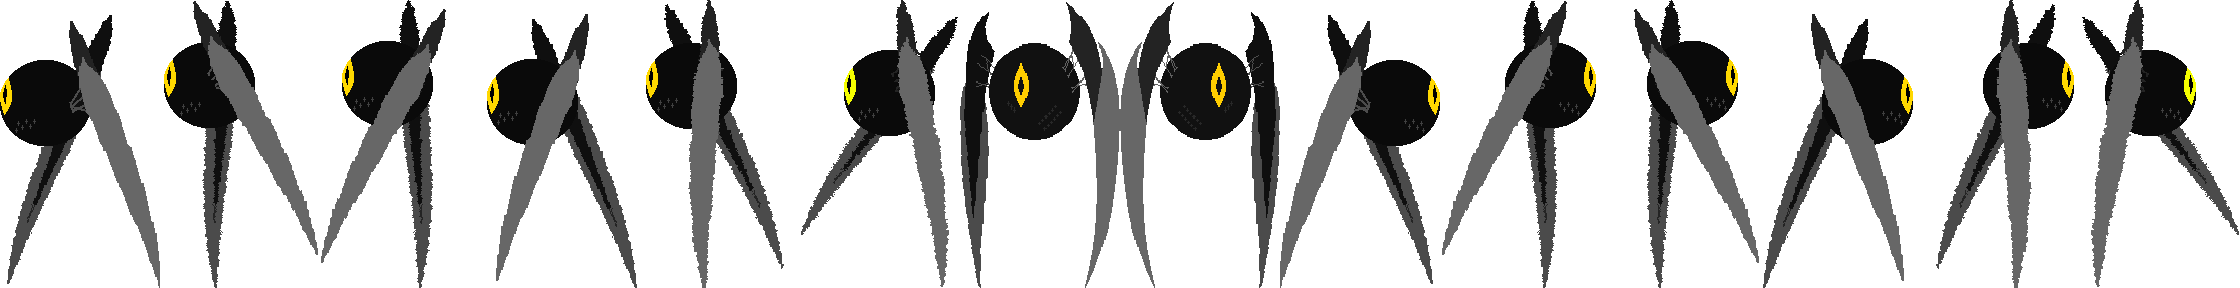
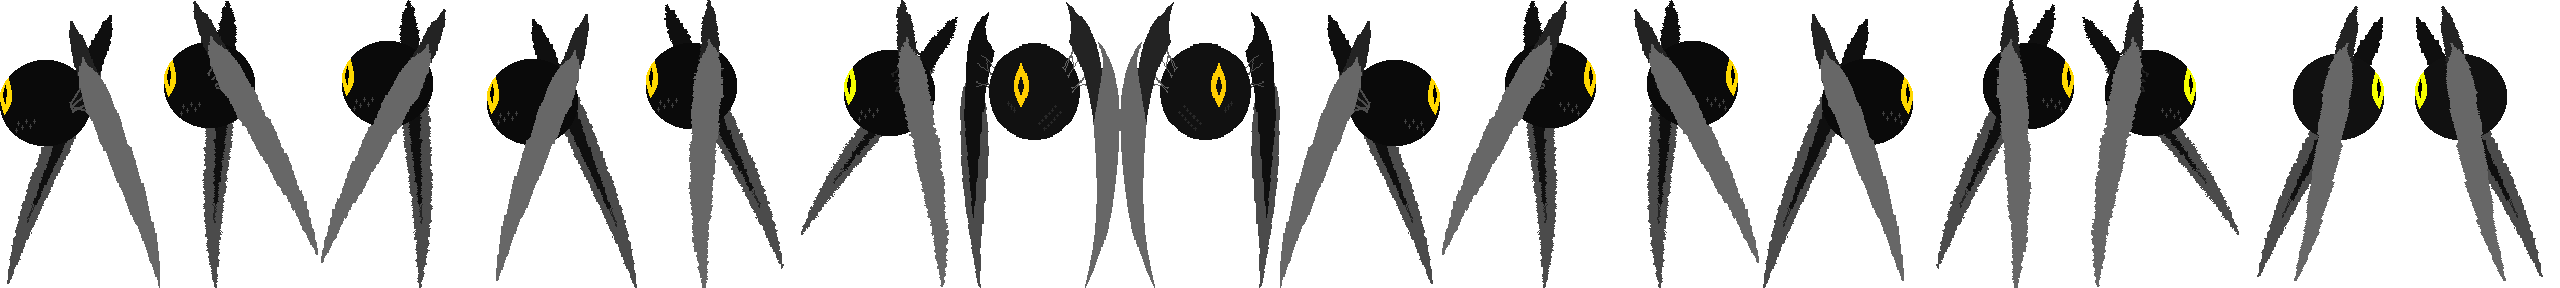
Checkpoint maj

diff --git a/src/scenes/TableauTiled.js b/src/scenes/TableauTiled.js
@@ -20,6 +20,7 @@ class TableauTiled extends Tableau{
         //les données du tableau qu'on a créé dans TILED
         this.load.tilemapTiledJSON('map', 'assets/Tiled/CarteXXI.json');
         this.load.image('star', 'assets/star.png');
+        this.load.image('checkp', 'assets/checkp.png');
         this.load.image('tower', 'assets/tower.png');
         // -----et puis aussi-------------
         this.load.image('monster-walk3', 'assets/monster-walk3.png');
@@ -81,6 +82,22 @@ class TableauTiled extends Tableau{
         // 3 Permet d'utiliser l'éditeur de collision de Tiled...mais ne semble pas marcher pas avec le moteur de physique ARCADE, donc oubliez cette option :(
         //this.map.setCollisionFromCollisionGroup(true,true,this.plateformesSimples);
 
+        this.checkPoints = this.physics.add.staticGroup();
+        this.checkPointsObjects = this.map.getObjectLayer('Check')['objects'];
+        //on crée des checkpoints pour chaque objet rencontré
+        this.checkPointsObjects.forEach(checkPointObject => 
+        {
+            this.point=this.checkPoints.create(checkPointObject.x+16,checkPointObject.y-16,'checkp')/*.play('cp', true)*/.setDisplaySize(32,32).setBodySize(32,32);
+            //.setOrigin(14,12.4);
+            /*point.blendMode=Phaser.BlendModes.COLOR_DODGE;*/
+            this.point.checkPointObject=checkPointObject;
+            this.checkPointsLight = this.add.pointlight(checkPointObject.x+32, checkPointObject.y+32, 0, 75, 0.15).setDepth(987+1);
+            this.checkPointsLight.attenuation = 0.05;
+            this.checkPointsLight.color.setTo(255, 150, 50);
+        });
+
+
+        
         //----------les étoiles (objets) ---------------------
 
         // c'est un peu plus compliqué, mais ça permet de maîtriser plus de choses...
@@ -269,7 +286,12 @@ class TableauTiled extends Tableau{
         this.physics.add.collider(this.stars, this.Physique);
         this.physics.add.collider(this.tower, this.Physique);
         //si le joueur touche une étoile dans le groupe...
-        //quand on touche la lave, on meurt
+
+        this.physics.add.overlap(this.player, this.checkPoints, function(player, checkPoint)
+        {   
+            //ui.perds();
+            ici.saveCheckPoint(checkPoint.checkPointObject.name);
+        });
 
         //--------- Z order -----------------------
 
@@ -286,6 +308,7 @@ class TableauTiled extends Tableau{
         this.Lava2.setDepth(z--);
         this.Lava.setDepth(z--);
         this.player.setDepth(z--);
+        this.checkPoints.setDepth(z--);
         this.Tuyo.setDepth(z--);
         this.Tag.setDepth(z--);
         this.Fond1.setDepth(z--);
@@ -295,8 +318,53 @@ class TableauTiled extends Tableau{
       /*  this.derriere.setDepth(z--);
         this.sky2.setDepth(z--);
         this.sky.setDepth(z--); */
+//Save & Restore checkpoint
+        this.restoreCheckPoint();
 
+     }
+     saveCheckPoint(checkPointName)
+        {
+        //this.unique = false;
+        if (localStorage.getItem("Check") !== checkPointName) // this.unique == false
+        {
+            //console.log("on atteint le checkpoint", checkPointName);
+            localStorage.setItem("Check", checkPointName);
+
+            /*this.checkpointSound = this.sound.add('criCorbeau');
+
+            var musicConfig = 
+            {
+                mute: false,
+                volume: 1,
+                rate : 1,
+                detune: 0,
+                seek: 0,
+                loop: false,
+                delay:0,
+            }
+            this.checkpointSound.play(musicConfig);
+           //this.unique = true;*/
+        }
     }
+
+    //---------------------------------- FIN DE SAVECHECKPOINT ----------------------------------
+
+
+    restoreCheckPoint()
+    {
+        let storedCheckPoint=localStorage.getItem("Check")
+        if(storedCheckPoint)
+        {
+            this.checkPointsObjects.forEach(checkPointObject => 
+            {
+                if(checkPointObject.name === storedCheckPoint)
+                {
+                    this.player.setPosition(checkPointObject.x, checkPointObject.y);//+432);
+                    //console.log("on charge le checkpoint", checkPointName);
+                }
+            });
+        }
+    } //---------------------------------- FIN DE RESTORECHECKPOINT ----------------------------------
 
     /**
      * Permet d'activer, désactiver des éléments en fonction de leur visibilité dans l'écran ou non

diff --git a/src/objects/Player.js b/src/objects/Player.js
@@ -33,6 +33,28 @@ class Player extends Phaser.Physics.Arcade.Sprite{
             frameRate: 20
         });
 
+        this.anims.create({
+            key: 'stance',
+            frames: [ { key: 'player', frame: 7 } ],
+            frameRate: 5,
+        });
+
+        this.anims.create({
+            key: 'back',
+            frames: [ { key: 'player', frame: 6 } ],
+            frameRate: 5,
+        });
+        this.anims.create({
+            key: 'jumpleft',
+            frames: [ { key: 'player', frame: 15 } ],
+            frameRate: 20
+        });
+        this.anims.create({
+            key: 'jumpright',
+            frames: [ { key: 'player', frame: 14 } ],
+            frameRate: 20
+        });
+
         this._directionX=0;
         this._directionY=0;
 
@@ -62,17 +84,26 @@ class Player extends Phaser.Physics.Arcade.Sprite{
 
         switch (true){
             case this._directionX<0:
+                this.sens=-1;
                 this.setVelocityX(-160);
+                if (this.body.directionY<0 && this.body.directionY>0) {
+                    this.anims.play('jumpleft', true);
+                }
                 this.anims.play('left', true);
+                
                 break;
             case this._directionX>0:
-
+                this.sens=1;
                 this.setVelocityX(160);
                 this.anims.play('right', true);
+                if (this.body.directionY<0 && this.body.directionY>0) {
+                    this.anims.play('jumpright', true);
+                }
                 break;
             default:
                 this.setVelocityX(0);
                 this.anims.play('turn');
+                this.anims.play(this.sens===-1 ? 'back' : 'stance' ,true);
         }
 
         if(this._directionY<0){
@@ -87,6 +118,7 @@ class Player extends Phaser.Physics.Arcade.Sprite{
     shoot()
     {   if(ui.score>0){
             if(this.rechargeSonTir === false) { //on vérifie si on a recharger le coup
+
                 this.rechargeSonTir = true; //lance la recharge
                 var bullet = new Tir(this.world,this.x, this.y);
                 console.log("Tir");

diff --git a/src/objects/ui/GamePad.js b/src/objects/ui/GamePad.js
@@ -41,6 +41,10 @@ class GamePad extends Phaser.GameObjects.Container{
                 case "ArrowDown":
                     Tableau.current.player.directionY=1;
                     break;
+                    
+                 case "Control":
+                    Tableau.current.ControlPressed = true;
+                    break;
             }
         });
         scene.input.keyboard.on('keyup', function(kevent){
@@ -60,6 +64,10 @@ class GamePad extends Phaser.GameObjects.Container{
                 case "ArrowDown":
                     Tableau.current.player.directionY=0;
                     break;
+
+                case "Control":
+                    Tableau.current.ControlPressed = false;
+                    break;    
             }
         });
 

diff --git a/src/scenes/structure/Tableau.js b/src/scenes/structure/Tableau.js
@@ -51,7 +51,19 @@ class Tableau extends Phaser.Scene{
         super.update();
         this.player.move();
         this.tirPlayer();
+        this.clearCheckPoints();                // Reset les checkPoints
+        
     }
+
+    clearCheckPoints()
+    {
+        if (this.ControlPressed)
+        {
+            console.log('gtf');
+            localStorage.removeItem("Check");
+        }
+    }
+
     tirPlayer(){
         if (Phaser.Input.Keyboard.JustDown(this.boutonTir)){
             this.player.shoot();

diff --git a/src/objects/Tir.js b/src/objects/Tir.js
@@ -9,7 +9,7 @@ class Tir extends ObjetPhysique{
       this.setDisplaySize(20,9);
       this.setBodySize(this.body.width,this.body.height);
 
-      this.setVelocityX(800);
+      this.setVelocityX(800*scene.player.sens);
       this.setBounce(1);
       this.setDepth(1000);
       ui.perds();
